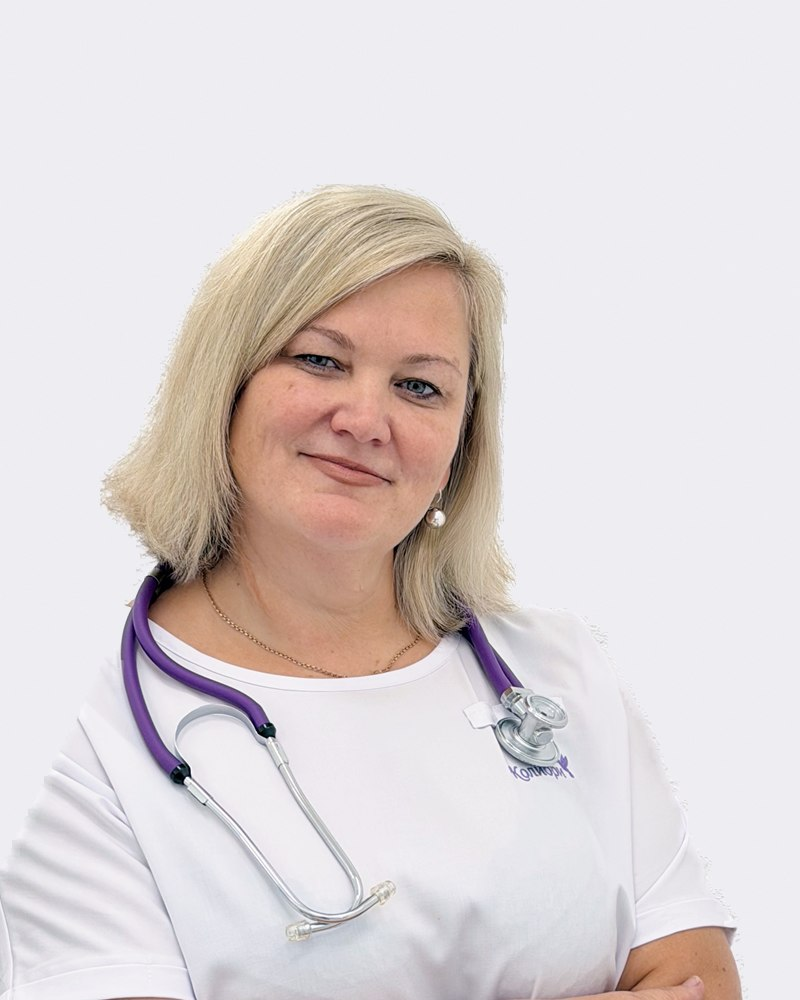
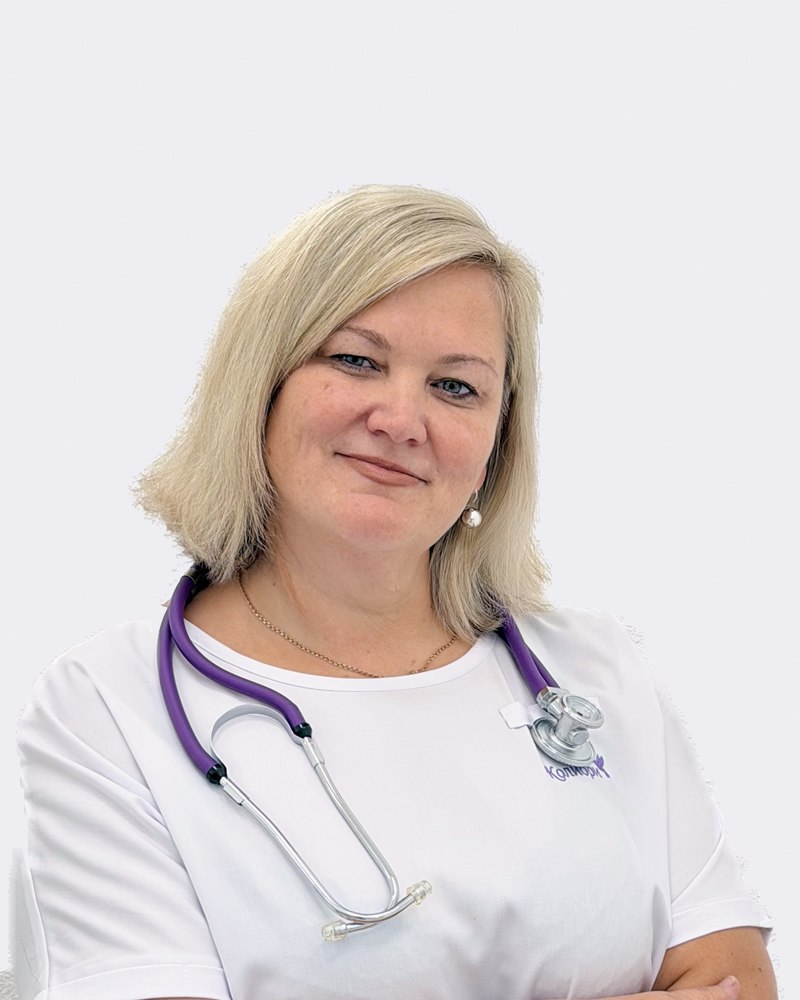
Седова: плечо возвращено, кадр по центру лица; кружки всех врачей — лицо по центру и чуть крупнее

diff --git a/js/data.js b/js/data.js
@@ -40,6 +40,7 @@ window.DOCTORS = [
     category: 'Врач высшей категории',
     exp: 24,
     photo: 'doc-sedova',
+    ava: 'doc-sedova-ava',   // кружок в карточке: лицо по центру
     text: [
       'Главный врач клиники «Колибри», врач высшей категории. Стаж работы — 24 года.',
       'С 2017 года возглавляет отделение патологии новорождённых и недоношенных детей ГБУЗ РК «Республиканская клиническая больница имени Н. А. Семашко», структурное подразделение «Перинатальный центр».',
@@ -53,6 +54,7 @@ window.DOCTORS = [
     category: 'Врач высшей категории',
     exp: 22,
     photo: 'doc-ponikarova',
+    ava: 'doc-ponikarova-ava',   // кружок в карточке: лицо по центру
     text: [
       'Врач педиатр-неонатолог высшей категории. Стаж работы по специальности «Педиатрия» — 22 года.',
       'Разрабатывает индивидуальные графики развития и ведения детей любого возраста.'
@@ -76,6 +78,7 @@ window.DOCTORS = [
     category: '',
     exp: null,
     photo: 'doc-vermenich',
+    ava: 'doc-vermenich-ava',   // кружок в карточке: лицо по центру
     text: [
       'Врач — детский хирург, детский уролог-андролог, врач ультразвуковой диагностики.'
     ]
@@ -87,6 +90,7 @@ window.DOCTORS = [
     category: '',
     exp: null,
     photo: 'doc-seitmemetova',
+    ava: 'doc-seitmemetova-ava',   // кружок в карточке: лицо по центру
     text: [
       'Врач ультразвуковой диагностики. Проводит все виды ультразвуковых исследований детям и взрослым на аппарате экспертного класса.'
     ]
@@ -98,6 +102,7 @@ window.DOCTORS = [
     category: '',
     exp: null,
     photo: 'doc-kuts',
+    ava: 'doc-kuts-ava',   // кружок в карточке: лицо по центру
     text: [
       'Врач-отоларинголог. Ведёт приём детей с заболеваниями уха, горла и носа.'
     ]
@@ -109,6 +114,7 @@ window.DOCTORS = [
     category: '',
     exp: null,
     photo: 'doc-voropaev',
+    ava: 'doc-voropaev-ava',   // кружок в карточке: лицо по центру
     text: [
       'Врач — детский хирург, детский уролог-андролог, врач ультразвуковой диагностики.'
     ]
@@ -120,6 +126,7 @@ window.DOCTORS = [
     category: '',
     exp: null,
     photo: 'doc-mefaeva',
+    ava: 'doc-mefaeva-ava',   // кружок в карточке: лицо по центру
     text: [
       'Врач-офтальмолог. Имеет опыт работы с детьми всех возрастных категорий, в том числе с недоношенными.'
     ]
@@ -131,6 +138,7 @@ window.DOCTORS = [
     category: '',
     exp: null,
     photo: 'doc-esatova',
+    ava: 'doc-esatova-ava',   // кружок в карточке: лицо по центру
     text: [
       'Врач-офтальмолог. Имеет опыт работы с детьми всех возрастных категорий.'
     ]
@@ -142,6 +150,7 @@ window.DOCTORS = [
     category: '',
     exp: null,
     photo: 'doc-sidametova',
+    ava: 'doc-sidametova-ava',   // кружок в карточке: лицо по центру
     text: [
       'Врач ортопед-травматолог.'
     ]
@@ -164,6 +173,7 @@ window.DOCTORS = [
     category: '',
     exp: null,
     photo: 'doc-menaeva',
+    ava: 'doc-menaeva-ava',   // кружок в карточке: лицо по центру
     text: [
       'Детский психолог.'
     ]
@@ -208,6 +218,7 @@ window.DOCTORS = [
     category: '',
     exp: null,
     photo: 'doc-sattarova',
+    ava: 'doc-sattarova-ava',   // кружок в карточке: лицо по центру
     text: [
       'Медицинская сестра, консультант по грудному вскармливанию.'
     ]

diff --git a/app-concept.html b/app-concept.html
@@ -6,9 +6,9 @@
   <title>Приложение «Колибри» — концепция</title>
   <meta name="description" content="Концепция мобильного приложения детской клиники «Колибри»: функционал по референсу, экраны в фирменном стиле, интеграция с МИС МЕДМИС.">
   <link rel="icon" href="img/logo.png" type="image/png">
-  <link rel="stylesheet" href="css/fonts.css?v=202610030152">
+  <link rel="stylesheet" href="css/fonts.css?v=202610030219">
 
-  <link rel="stylesheet" href="css/style.css?v=202610030152">
+  <link rel="stylesheet" href="css/style.css?v=202610030219">
   <style>
     /* ---------- страница ---------- */
     .concept-hero { background: linear-gradient(120deg, var(--p600), var(--p800)); color: #fff; border-radius: 32px; padding: 44px 48px; margin-top: 24px; display: grid; grid-template-columns: 1.2fr .8fr; gap: 32px; align-items: center; position: relative; overflow: hidden; }
@@ -777,8 +777,8 @@
   <symbol id="a-alert" viewBox="0 0 24 24" fill="none" stroke="currentColor" stroke-width="2" stroke-linecap="round" stroke-linejoin="round"><circle cx="12" cy="12" r="9"/><path d="M12 7v6M12 16h.01"/></symbol>
 </svg>
 
-<script src="js/data.js?v=202610030152"></script>
-<script src="js/photos.js?v=202610030152"></script>
-<script src="js/main.js?v=202610030152"></script>
+<script src="js/data.js?v=202610030219"></script>
+<script src="js/photos.js?v=202610030219"></script>
+<script src="js/main.js?v=202610030219"></script>
 </body>
 </html>

diff --git a/index.html b/index.html
@@ -6,9 +6,9 @@
   <title>Детская клиника «Колибри» — Симферополь, с. Мирное | Забота с первых дней</title>
   <meta name="description" content="Детская клиника «Колибри» в с. Мирное (Симферопольский район): педиатр-неонатолог, сопровождение недоношенных детей, УЗИ экспертного класса от 0 до 99 лет, вакцинация с рождения. Запись: +7 (978) 130-00-30">
   <link rel="icon" href="img/logo.png" type="image/png">
-  <link rel="stylesheet" href="css/fonts.css?v=202610030152">
+  <link rel="stylesheet" href="css/fonts.css?v=202610030219">
 
-  <link rel="stylesheet" href="css/style.css?v=202610030152">
+  <link rel="stylesheet" href="css/style.css?v=202610030219">
 </head>
 <body>
 
@@ -236,8 +236,8 @@
   </div>
 </section>
 
-<script src="js/data.js?v=202610030152"></script>
-<script src="js/photos.js?v=202610030152"></script>
-<script src="js/main.js?v=202610030152"></script>
+<script src="js/data.js?v=202610030219"></script>
+<script src="js/photos.js?v=202610030219"></script>
+<script src="js/main.js?v=202610030219"></script>
 </body>
 </html>

diff --git a/ceny.html b/ceny.html
@@ -6,9 +6,9 @@
   <title>Программы наблюдения и цены — Детская клиника «Колибри», с. Мирное</title>
   <meta name="description" content="Цены детской клиники «Колибри»: программы наблюдения детей от рождения до 6 и до 12 месяцев, осмотры педиатра, неонатолога, офтальмолога с сопровождением в мессенджере, пакет для недоношенных детей.">
   <link rel="icon" href="img/logo.png" type="image/png">
-  <link rel="stylesheet" href="css/fonts.css?v=202610030152">
+  <link rel="stylesheet" href="css/fonts.css?v=202610030219">
 
-  <link rel="stylesheet" href="css/style.css?v=202610030152">
+  <link rel="stylesheet" href="css/style.css?v=202610030219">
 </head>
 <body>
 
@@ -62,8 +62,8 @@
   </div>
 </section>
 
-<script src="js/data.js?v=202610030152"></script>
-<script src="js/photos.js?v=202610030152"></script>
-<script src="js/main.js?v=202610030152"></script>
+<script src="js/data.js?v=202610030219"></script>
+<script src="js/photos.js?v=202610030219"></script>
+<script src="js/main.js?v=202610030219"></script>
 </body>
 </html>

diff --git a/uslugi.html b/uslugi.html
@@ -6,9 +6,9 @@
   <title>Услуги — Детская клиника «Колибри», с. Мирное</title>
   <meta name="description" content="Услуги детской клиники «Колибри»: педиатр-неонатолог, сопровождение недоношенных детей, ортопед, хирург и уролог, невролог, офтальмолог, ЛОР, логопед, психолог, медсестра, консультант по грудному вскармливанию.">
   <link rel="icon" href="img/logo.png" type="image/png">
-  <link rel="stylesheet" href="css/fonts.css?v=202610030152">
+  <link rel="stylesheet" href="css/fonts.css?v=202610030219">
 
-  <link rel="stylesheet" href="css/style.css?v=202610030152">
+  <link rel="stylesheet" href="css/style.css?v=202610030219">
 </head>
 <body>
 
@@ -56,8 +56,8 @@
   </div>
 </section>
 
-<script src="js/data.js?v=202610030152"></script>
-<script src="js/photos.js?v=202610030152"></script>
-<script src="js/main.js?v=202610030152"></script>
+<script src="js/data.js?v=202610030219"></script>
+<script src="js/photos.js?v=202610030219"></script>
+<script src="js/main.js?v=202610030219"></script>
 </body>
 </html>

diff --git a/js/main.js b/js/main.js
@@ -165,7 +165,7 @@
   function doctorCard(d) {
     /* администраторы и младший персонал (staff): только фото, ФИО и должность — без записи и «Подробнее» */
     if (d.staff) return '<div class="doctor doctor--staff">' + photo(d.photo, 'ph--round doctor__photo', d.name) + '<h3>' + esc(d.name) + '</h3><div class="doctor__spec">' + d.spec.map(function (s) { return '<span>' + esc(s) + '</span>'; }).join('') + '</div></div>';
-    return '<div class="doctor">' + photo(d.photo, 'ph--round doctor__photo', d.name).replace('class="ph ', 'data-doctor="' + d.id + '" class="ph ') +
+    return '<div class="doctor">' + photo(d.ava || d.photo, 'ph--round doctor__photo', d.name).replace('class="ph ', 'data-doctor="' + d.id + '" class="ph ') +
       '<h3>' + esc(d.name) + '</h3>' +
       (d.exp ? '<span class="tag doctor__exp">Стаж ' + years(d.exp) + '</span>' : (d.category ? '<span class="tag doctor__exp">' + esc(d.category) + '</span>' : '<span class="tag doctor__exp">Приём детей с рождения</span>')) +
       '<div class="doctor__spec">' + d.spec.map(function (s) { return '<span>' + esc(s) + '</span>'; }).join('') + '</div>' +

diff --git a/uzi.html b/uzi.html
@@ -6,9 +6,9 @@
   <title>УЗИ экспертного класса от 0 до 99 лет — Детская клиника «Колибри», с. Мирное</title>
   <meta name="description" content="Все виды УЗИ на аппарате экспертного класса: ЭхоКГ новорождённым весом до 3 кг, скрининг в 1 месяц, эластография, сосуды, лёгкие, кожа. Детям и взрослым. Запись: +7 (978) 130-00-30">
   <link rel="icon" href="img/logo.png" type="image/png">
-  <link rel="stylesheet" href="css/fonts.css?v=202610030152">
+  <link rel="stylesheet" href="css/fonts.css?v=202610030219">
 
-  <link rel="stylesheet" href="css/style.css?v=202610030152">
+  <link rel="stylesheet" href="css/style.css?v=202610030219">
 </head>
 <body>
 
@@ -74,8 +74,8 @@
   </div>
 </section>
 
-<script src="js/data.js?v=202610030152"></script>
-<script src="js/photos.js?v=202610030152"></script>
-<script src="js/main.js?v=202610030152"></script>
+<script src="js/data.js?v=202610030219"></script>
+<script src="js/photos.js?v=202610030219"></script>
+<script src="js/main.js?v=202610030219"></script>
 </body>
 </html>

diff --git a/rostomer.html b/rostomer.html
@@ -5,9 +5,9 @@
   <meta name="viewport" content="width=device-width, initial-scale=1">
   <title>Ростомер «Колибри» — варианты</title>
   <link rel="icon" href="img/logo.png" type="image/png">
-  <link rel="stylesheet" href="css/fonts.css?v=202610030152">
+  <link rel="stylesheet" href="css/fonts.css?v=202610030219">
 
-  <link rel="stylesheet" href="css/style.css?v=202610030152">
+  <link rel="stylesheet" href="css/style.css?v=202610030219">
   <style>
     .intro { background: #fff; border-radius: var(--radius); padding: 24px 28px; box-shadow: var(--shadow); margin-bottom: 28px; }
     .intro p { margin: 0 0 8px; font-size: 15px; }
@@ -89,10 +89,10 @@
   </div>
 </section>
 
-<script src="js/data.js?v=202610030152"></script>
-<script src="js/photos.js?v=202610030152"></script>
-<script src="js/main.js?v=202610030152"></script>
-<script src="js/rostomer.js?v=202610030152"></script>
+<script src="js/data.js?v=202610030219"></script>
+<script src="js/photos.js?v=202610030219"></script>
+<script src="js/main.js?v=202610030219"></script>
+<script src="js/rostomer.js?v=202610030219"></script>
 <script>
 (function () {
   window.ROSTOMER.variants.forEach(function (v, i) {

diff --git a/o-klinike.html b/o-klinike.html
@@ -6,9 +6,9 @@
   <title>О клинике — Детская клиника «Колибри», с. Мирное</title>
   <meta name="description" content="Детская клиника «Колибри» в с. Мирное Симферопольского района: врачи высшей категории, УЗИ экспертного класса, сопровождение недоношенных детей, вакцинация с рождения.">
   <link rel="icon" href="img/logo.png" type="image/png">
-  <link rel="stylesheet" href="css/fonts.css?v=202610030152">
+  <link rel="stylesheet" href="css/fonts.css?v=202610030219">
 
-  <link rel="stylesheet" href="css/style.css?v=202610030152">
+  <link rel="stylesheet" href="css/style.css?v=202610030219">
 </head>
 <body>
 
@@ -90,8 +90,8 @@
   </div>
 </section>
 
-<script src="js/data.js?v=202610030152"></script>
-<script src="js/photos.js?v=202610030152"></script>
-<script src="js/main.js?v=202610030152"></script>
+<script src="js/data.js?v=202610030219"></script>
+<script src="js/photos.js?v=202610030219"></script>
+<script src="js/main.js?v=202610030219"></script>
 </body>
 </html>

diff --git a/kontakty.html b/kontakty.html
@@ -6,9 +6,9 @@
   <title>Контакты — Детская клиника «Колибри», с. Мирное, ул. Крымской Весны, 9к1</title>
   <meta name="description" content="Детская клиника «Колибри»: Республика Крым, Симферопольский р-н, с. Мирное, ул. Крымской Весны, 9к1. Телефон +7 (978) 130-00-30. Схема проезда и режим работы.">
   <link rel="icon" href="img/logo.png" type="image/png">
-  <link rel="stylesheet" href="css/fonts.css?v=202610030152">
+  <link rel="stylesheet" href="css/fonts.css?v=202610030219">
 
-  <link rel="stylesheet" href="css/style.css?v=202610030152">
+  <link rel="stylesheet" href="css/style.css?v=202610030219">
 </head>
 <body>
 
@@ -54,8 +54,8 @@
   </div>
 </section>
 
-<script src="js/data.js?v=202610030152"></script>
-<script src="js/photos.js?v=202610030152"></script>
-<script src="js/main.js?v=202610030152"></script>
+<script src="js/data.js?v=202610030219"></script>
+<script src="js/photos.js?v=202610030219"></script>
+<script src="js/main.js?v=202610030219"></script>
 </body>
 </html>

diff --git a/vrachi.html b/vrachi.html
@@ -6,9 +6,9 @@
   <title>Врачи — Детская клиника «Колибри», с. Мирное</title>
   <meta name="description" content="Врачи детской клиники «Колибри»: педиатры-неонатологи высшей категории, ортопед, детский хирург и уролог, невролог, офтальмологи, ЛОР, врачи УЗИ. Запись: +7 (978) 130-00-30">
   <link rel="icon" href="img/logo.png" type="image/png">
-  <link rel="stylesheet" href="css/fonts.css?v=202610030152">
+  <link rel="stylesheet" href="css/fonts.css?v=202610030219">
 
-  <link rel="stylesheet" href="css/style.css?v=202610030152">
+  <link rel="stylesheet" href="css/style.css?v=202610030219">
 </head>
 <body>
 
@@ -47,8 +47,8 @@
   </div>
 </section>
 
-<script src="js/data.js?v=202610030152"></script>
-<script src="js/photos.js?v=202610030152"></script>
-<script src="js/main.js?v=202610030152"></script>
+<script src="js/data.js?v=202610030219"></script>
+<script src="js/photos.js?v=202610030219"></script>
+<script src="js/main.js?v=202610030219"></script>
 </body>
 </html>

diff --git a/poleznoe.html b/poleznoe.html
@@ -6,9 +6,9 @@
   <title>Полезное для родителей — Детская клиника «Колибри»</title>
   <meta name="description" content="Статьи врачей детской клиники «Колибри»: осмотры в первый месяц, УЗИ сердца новорождённому, прививки недоношенным, когда нужен невролог.">
   <link rel="icon" href="img/logo.png" type="image/png">
-  <link rel="stylesheet" href="css/fonts.css?v=202610030152">
+  <link rel="stylesheet" href="css/fonts.css?v=202610030219">
 
-  <link rel="stylesheet" href="css/style.css?v=202610030152">
+  <link rel="stylesheet" href="css/style.css?v=202610030219">
 </head>
 <body>
 
@@ -32,8 +32,8 @@
   </div>
 </section>
 
-<script src="js/data.js?v=202610030152"></script>
-<script src="js/photos.js?v=202610030152"></script>
-<script src="js/main.js?v=202610030152"></script>
+<script src="js/data.js?v=202610030219"></script>
+<script src="js/photos.js?v=202610030219"></script>
+<script src="js/main.js?v=202610030219"></script>
 </body>
 </html>
